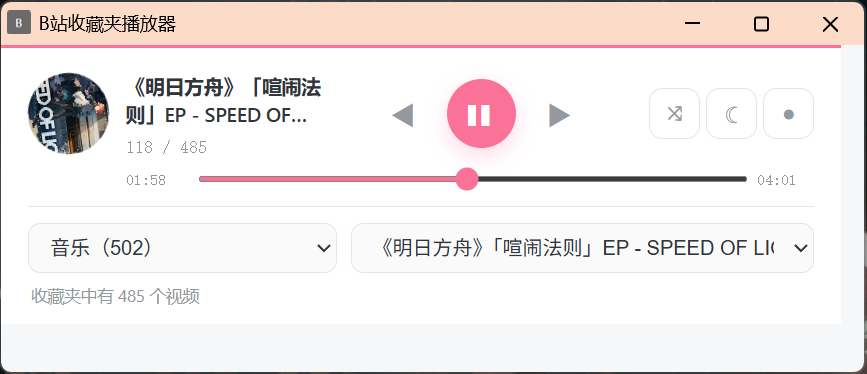
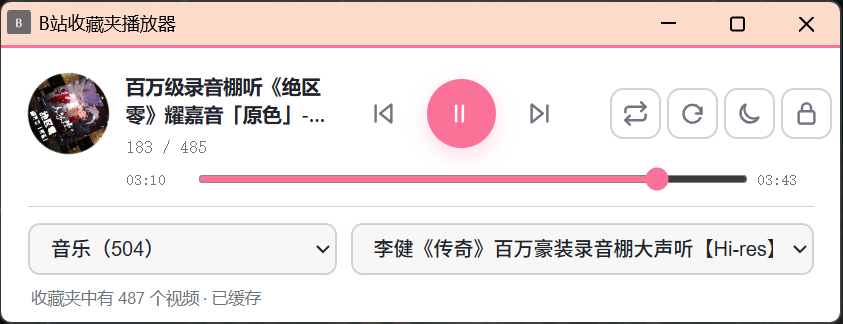
Fix track selection and update screenshots

diff --git a/popup.js b/popup.js
@@ -32,6 +32,13 @@ function showFolders(folders, selected) {
 
 function showTracks() {
   $('#track').replaceChildren(...videos.map((item, index) => new Option(item.title, index)));
+  syncTrackSelection();
+}
+
+function syncTrackSelection() {
+  const current = player.videos?.[player.index];
+  const index = current ? videos.findIndex(item => item.bvid === current.bvid) : -1;
+  if (index >= 0) $('#track').value = index;
 }
 
 async function loadFolders(force = false) {
@@ -102,7 +109,7 @@ function render() {
     $('#title').title = video.title;
     $('#cover').src = video.cover;
     $('#position').textContent = `${player.index + 1} / ${player.videos.length}`;
-    $('#track').value = player.index;
+    syncTrackSelection();
   }
   document.body.classList.toggle('playing', !player.paused);
   $('#toggle').dataset.paused = player.paused;
@@ -124,7 +131,14 @@ $('#folder').addEventListener('change', async () => {
   await chrome.storage.local.set({ folderId: $('#folder').value });
   loadVideos(false);
 });
-$('#track').addEventListener('change', () => status('点击播放，将从这首开始'));
+$('#track').addEventListener('change', async () => {
+  const index = Number($('#track').value);
+  const current = player.videos?.[player.index];
+  if (!videos[index] || videos[index].bvid === current?.bvid) return;
+  status(`正在切换到：${videos[index].title}`);
+  await chrome.runtime.sendMessage({ type: 'start', videos, index, mode: player.mode });
+  setTimeout(refreshPlayer, 300);
+});
 $('#toggle').addEventListener('click', async () => {
   if (player.index < 0 || !player.videos?.length) {
     if (!videos.length) return;

diff --git a/README.md b/README.md
@@ -4,7 +4,13 @@
 
 ## 界面预览
 
+### 独立播放器窗口
+
 ![日间模式播放器](docs/screenshots/player-light.png)
+
+### 工具栏弹窗
+
+![工具栏播放器弹窗](docs/screenshots/player-popup.png)
 
 ## 功能
 
